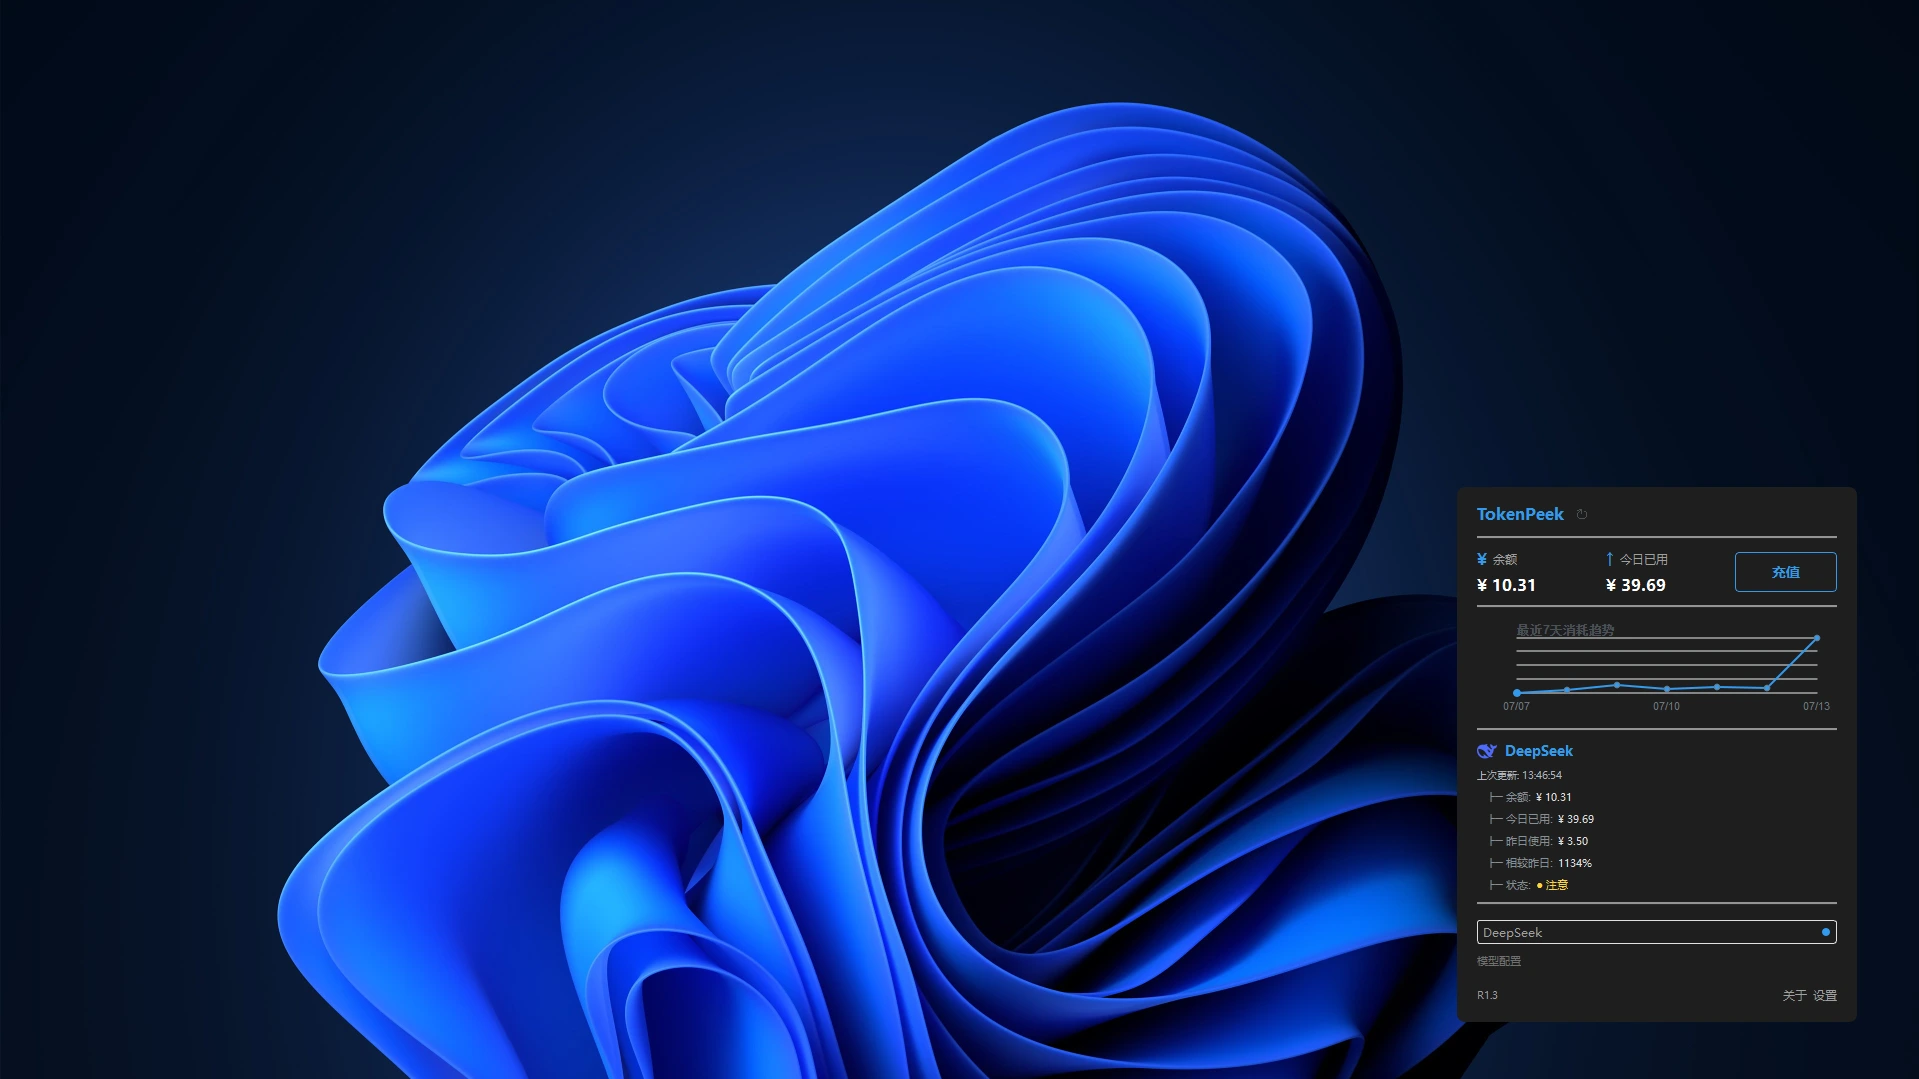
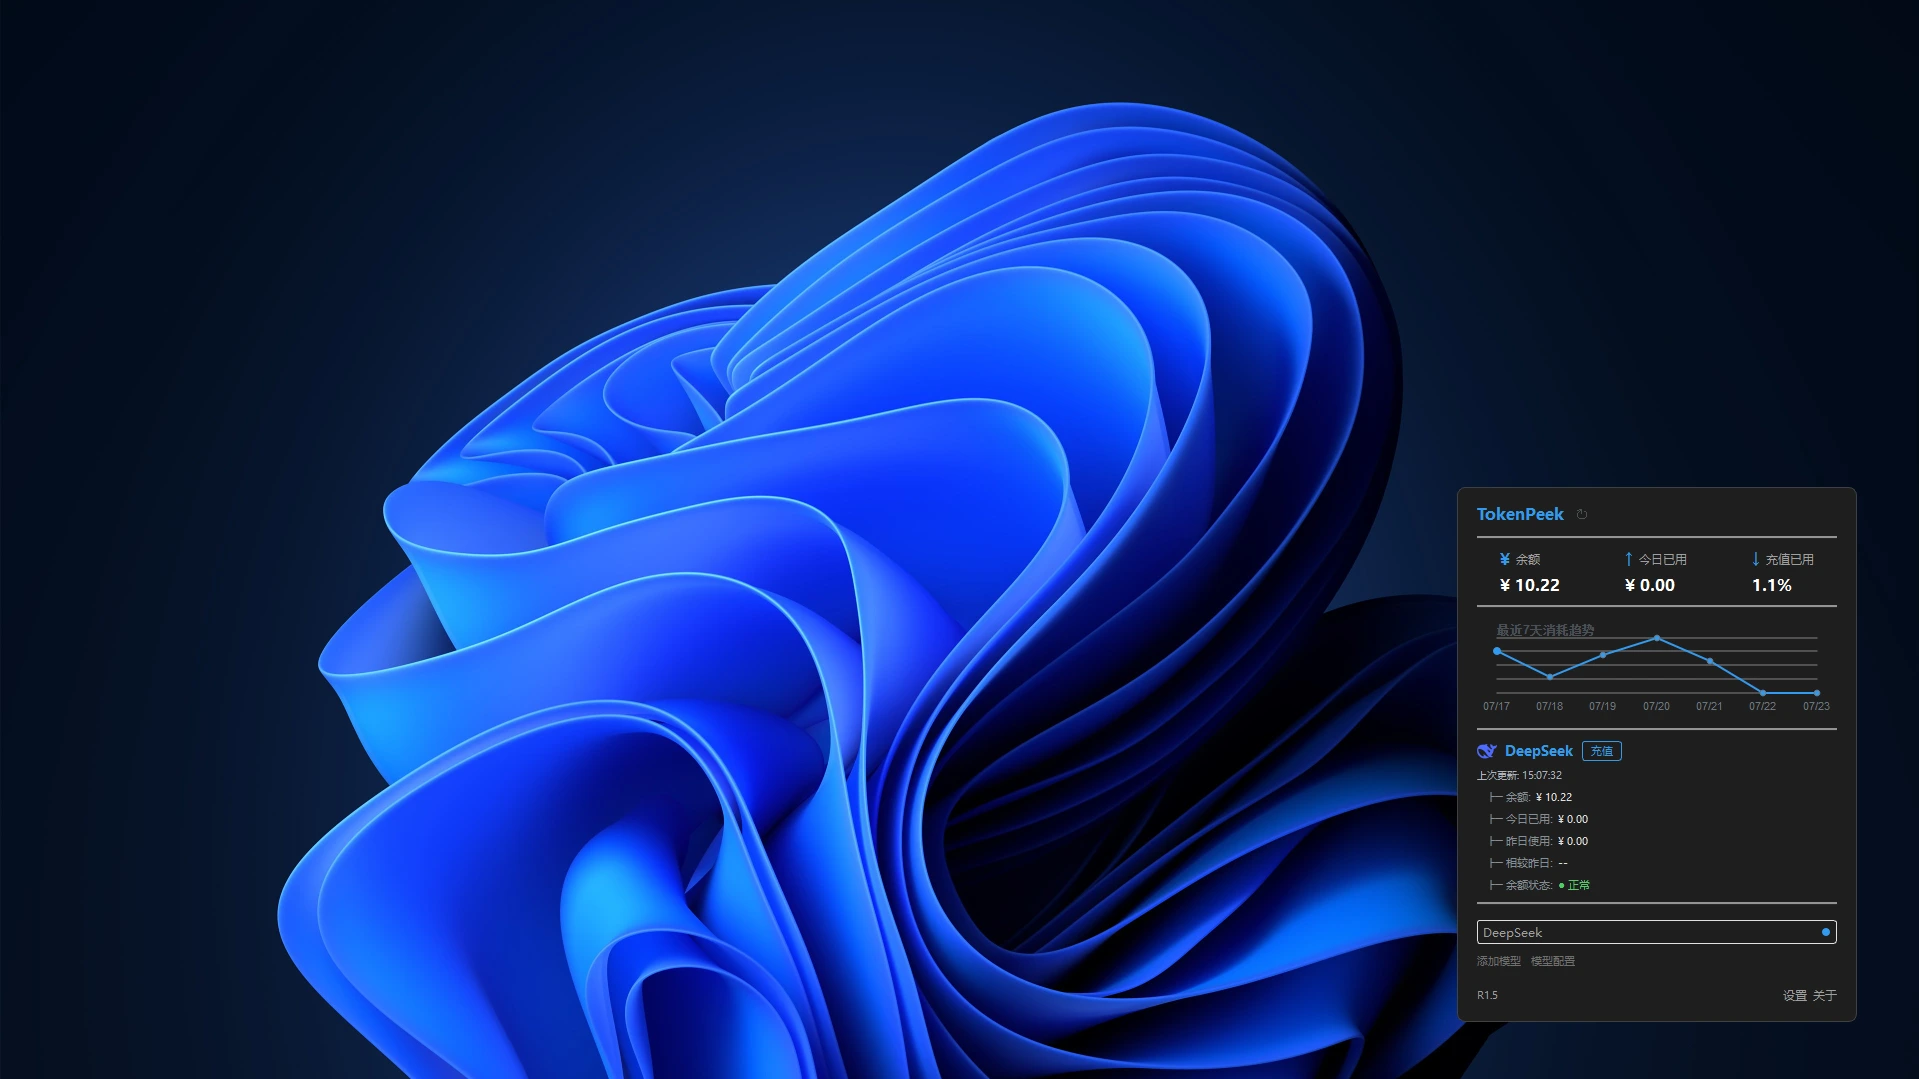
R2.3.8

diff --git a/update/tokenpeek.js b/update/tokenpeek.js
@@ -9,6 +9,21 @@ window.__UPDATE_TREE__['tokenpeek'] = {
       "changes": [
         {
           "type": "improvement",
+          "text": "重构了消耗计算逻辑",
+          "section": "#06"
+        },
+        {
+          "type": "feature",
+          "text": "新增用量百分比显示",
+          "section": "#06"
+        },
+        {
+          "type": "fix",
+          "text": "修复了已知的问题",
+          "section": "#06"
+        },
+        {
+          "type": "improvement",
           "text": "优化了图表显示逻辑",
           "section": "#05"
         },